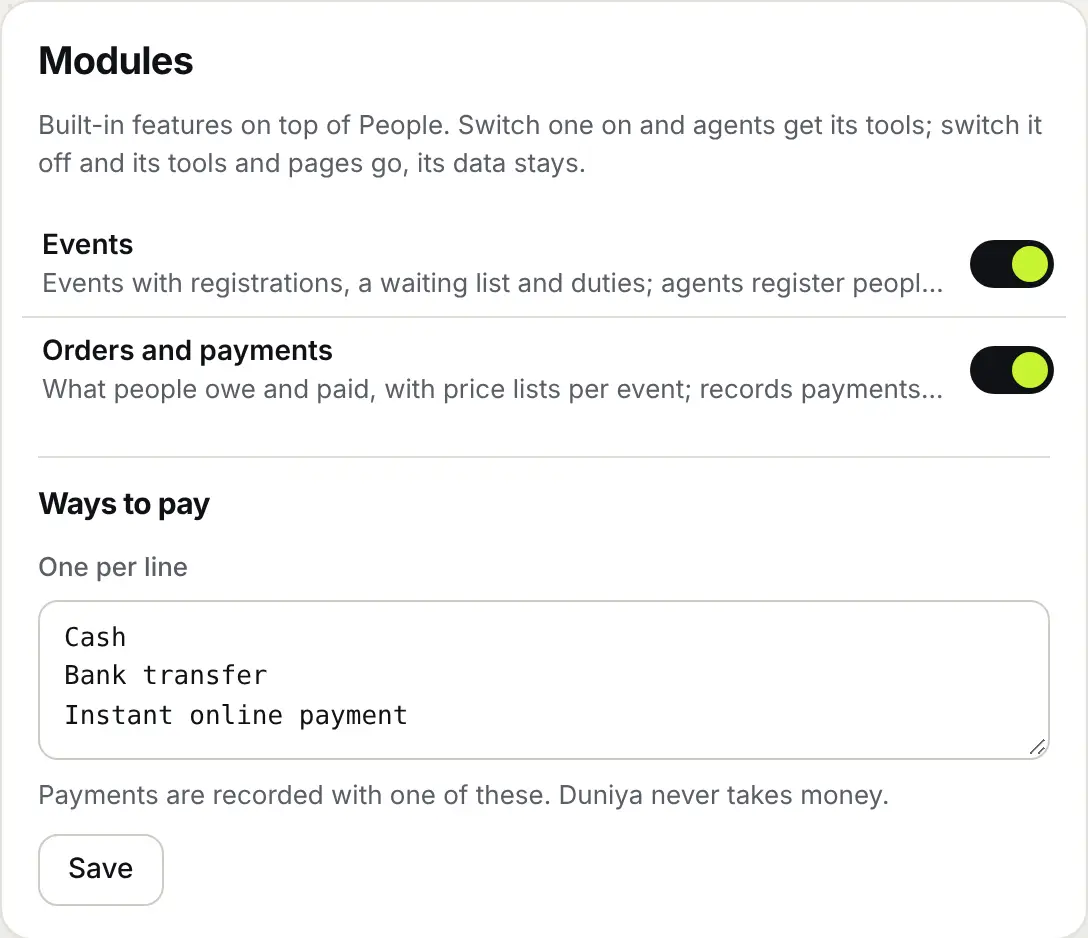
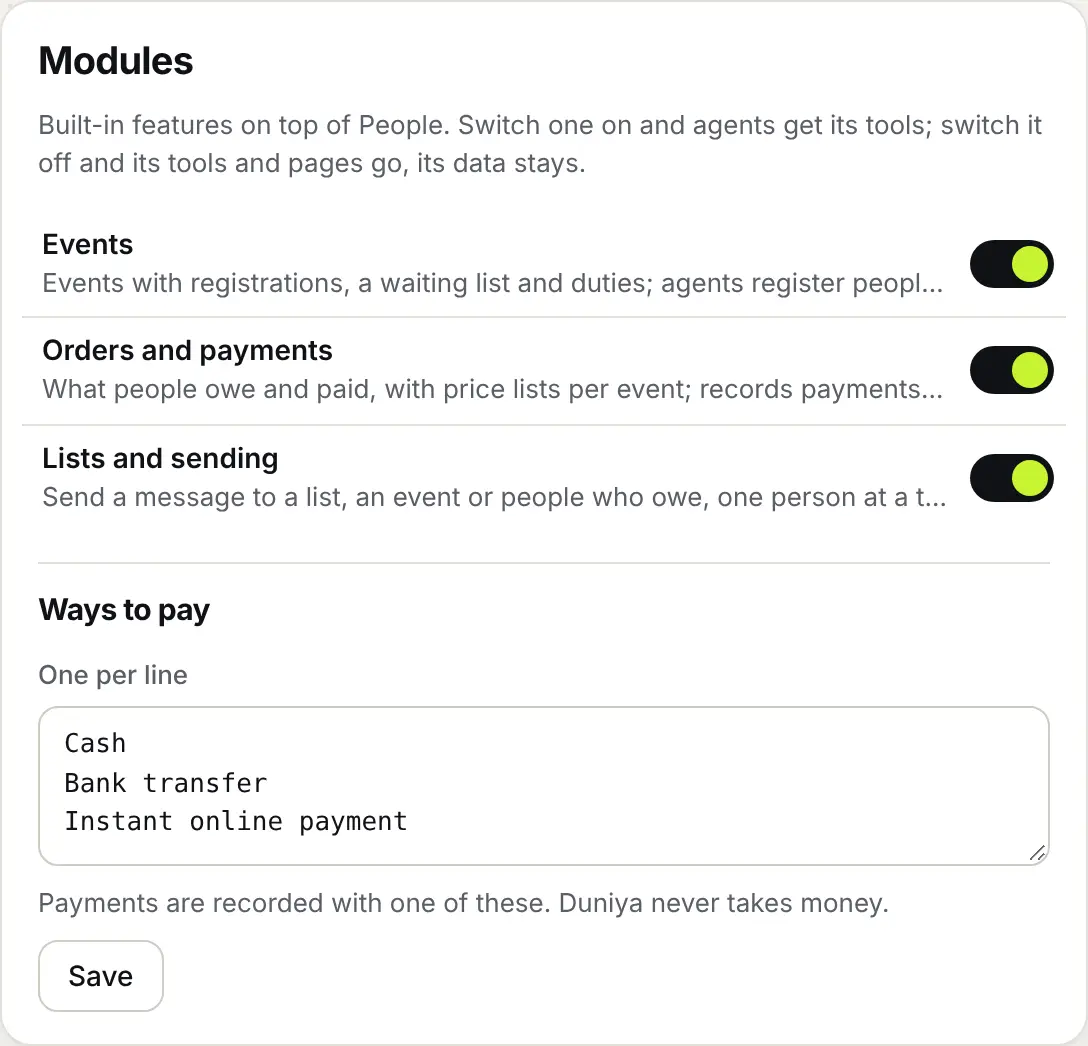
Sending: docs, website tile, screenshots, spec 082, version 2.44.0

diff --git a/docs/site/index.html b/docs/site/index.html
@@ -181,8 +181,15 @@
         <p>Switch on <b>Events</b> and <b>Orders and payments</b> under Settings → Modules. Families register in the group (<i>"!panduga register us for Sankranti"</i>): adults and kids come from the household, a full event fills a <strong>waiting list that moves up by itself</strong>, and an organizer can confirm each one. The price list turns a registration into an order (kids under an age free); record cash or bank payments, part or full, and ask <i>"who hasn't paid?"</i>. Duties, attendance and CSV too. Duniya records payments, it never takes money.</p>
         <div class="duo">
           <a class="shot" href="img/card-event.webp"><img src="img/card-event.webp" width="1600" height="1849" loading="lazy" alt="Sankranti 2027: 7 registrations, 18 people (12 adults, 6 kids), 22 places left; the Chary family with 2 adults, 2 kids, vegetarian; duties such as setting up chairs at 09:00; CHF 115 paid of CHF 350."></a>
-          <a class="shot" href="img/card-orders.webp"><img src="img/card-orders.webp" width="1600" height="1159" loading="lazy" alt="Orders not paid: totals for Sankranti 2027 and each order with what is left and when it is due, one overdue, one part paid."></a>
+          <a class="shot" href="img/card-orders.webp"><img src="img/card-orders.webp" width="1600" height="1226" loading="lazy" alt="Orders not paid: totals for Sankranti 2027 and each order with what is left and when it is due, one overdue, one part paid."></a>
         </div>
+      </article>
+
+      <article class="tile wide">
+        <span class="label">Lists &amp; sending</span>
+        <h3>Message the families, one person at a time.</h3>
+        <p>Switch on <b>Lists and sending</b>: send to a list, a tag, an event's families (one message per household) or everyone who still owes. <strong>Consent is checked in code before every message</strong>, each person gets their own wording with their own facts (never invented), Telegram when they use it, WhatsApp at a person's pace: sending hours, typing, random gaps, a daily limit, slower for people who never wrote. A reply <i>"stop"</i> is respected at once, and the run pauses and tells you. Payment reminders with one tap, or by themselves before the due date. Pacing lowers the risk of a WhatsApp ban; it does not remove it.</p>
+        <a class="shot" href="img/card-sending.webp"><img src="img/card-sending.webp" width="1600" height="1012" loading="lazy" alt="A payment reminder for Sankranti 2027 being sent: 3 of 5 sent, 2 replied, 1 said stop; who got it, and Sophie and Priya waiting."></a>
       </article>
 
       <article class="tile third">

diff --git a/docs/sending.md b/docs/sending.md
@@ -1,0 +1,130 @@
+# Lists and sending
+
+**Send a message to a list, an event's families or everyone who still owes: each person gets their own wording, one
+at a time at a person's pace, and only if they said yes.**
+
+**Do it:** **Settings → Modules** → **Lists and sending** on → **People → Sending → + New message** → **Preview** →
+**Start sending**.
+
+**In 30 seconds**
+- **To:** a list, a tag, a household, the people registered for an event, people with an open order (all, or of one
+  event), or a saved audience. Or **one post in a group** instead of 1:1 messages.
+- **Consent is checked in code** right before every message: the purpose (**updates** or **marketing**) must be *Yes*
+  on the person's page. *Not asked* counts as no. Hidden people, people without an app and chats you switched off are
+  skipped too; the preview lists who and why.
+- **Each person gets their own wording:** the agent rewrites your message for them (their name, household, event,
+  open amount) and must keep every fact word for word, or your message goes out as written. Nothing is invented.
+- **Telegram** when they use it with your bot (fast), **WhatsApp** otherwise, at the [sending pace](sending-pace.md):
+  sending hours, typing, a random gap, a longer pause now and then, a daily limit, slower for people who never wrote.
+- **Nothing is sent before you confirm** the preview: who, how many, which app, how long, who is skipped and why,
+  three samples. Agents can prepare a message too; an organizer confirms it with `confirm CODE`.
+- Replies go to the agent you chose, like any message. **"stop"** (or *unsubscribe*, *arrête*, *basta*, …) records
+  *No* and confirms once; **"start"** undoes it.
+
+![A run's page: the payment reminder for Sankranti, 3 of 5 sent, 2 replied, 1 said stop; who got it and who is waiting](site/img/card-sending.webp)
+
+> [!WARNING]
+> Pacing lowers the risk that WhatsApp restricts or bans your number, but it does **not** remove it. WhatsApp's terms
+> restrict bulk and automated messaging. Send only to people who know you and expect the message, keep lists small,
+> and use a dedicated number ([Connect WhatsApp](whatsapp.md)).
+
+## Send a message
+
+1. **People → Sending → + New message**.
+2. **Title** (for you), **How** (each person in their own chat, or one post in a group), **To** and the list, tag,
+   household or event.
+3. **Purpose**: *Updates* (news about things they take part in: an event, a payment) or *Marketing*.
+4. **Replies go to**: the agent that answers when people write back. Direct chats that are not set up yet are switched
+   on with it (the preview says how many).
+5. **Message**, with the facts it may use: `{first_name}`, `{name}`, `{household}`; for events `{event}`, `{date}`,
+   `{place}`, `{people}` (e.g. *2 adults, 1 kid*); for open orders `{amount}`, `{due}`, `{ways_to_pay}`.
+6. **Pause when this many in a row do not answer** (default 20; 0 for reminders nobody needs to answer).
+7. **Preview** → check the samples and who is skipped → **Start sending to N people**.
+
+**Save audience…** keeps the choice under a name for next time.
+
+## Who gets it
+
+| Audience | Who |
+|---|---|
+| A list, a tag | its people; a kid without a phone is reached through an adult of their household |
+| A household | one message: the first of its adults who can get it (people who wrote to this number first) |
+| An event | its **registered** people; a registered household gets **one** message, to one adult who agreed |
+| Open orders | everyone with an order not fully paid (of one event, or all), one message per household, with the open amount |
+
+Skipped, with the reason on the preview and the run's page: *Said no to updates*, *Not asked about updates*, *Hidden in
+People*, *No app to reach them*, *Their chat is switched off*, *A household without adults*. Consent is checked again
+right before each message, so a *No* recorded meanwhile still counts.
+
+## The pace
+
+One message at a time, on the server's 30-second check (no extra timers), and it carries on after a restart.
+
+- Only within the **sending hours** (09:00–20:00 by default, the owner assistant's time zone).
+- The chat's unread messages are **read first**, then **typing…** for the length of the message.
+- On WhatsApp a **random gap** follows each message (Normal: 45 s–3 min), **twice as long** for someone who never wrote
+  to this number, and a **longer pause** every N messages.
+- **Daily limit:** people who never wrote count as new chats (Normal: 40 a day, lower for a number linked this week);
+  people who wrote may get three times as many. At the limit the run **waits for tomorrow by itself**.
+- Telegram has no WhatsApp gaps or limits: a few seconds apart.
+
+At Normal pace 100 people who wrote before take about four hours; people who never wrote, 40 a day.
+
+## Stop signals
+
+A run **pauses** and you get an owner alert (and the run's page says why) when:
+
+- someone replies **stop** (or asks the agent not to get messages),
+- **N people in a row** did not answer within half an hour (your setting; 0 = never),
+- **3 messages in a row** could not be sent,
+- WhatsApp is **logged out**, or has not been connected for **15 minutes**.
+
+Look at it, then **Resume** or **Stop**. The daily limit and the sending hours only make it wait.
+
+> [!NOTE]
+> WhatsApp does not tell anyone when a person reports or blocks a number. A sudden quiet after a message, or several
+> stops, is the signal to stop and rethink the message.
+
+## Stop and start
+
+- **stop**, *unsubscribe*, *stopp*, *arrête*, *basta*, *para*, *baja*, … as the whole reply (within 30 days of a list
+  message): their consent for that purpose becomes **No** (*Replied STOP*), they get one confirmation, and the run
+  pauses. Saying it again sends nothing.
+- Other phrasings (*"please don't send me these"*, any language): the agent records it with its **stop messages**
+  tool and confirms.
+- **start** sets it back to *Yes* (*Replied START*).
+
+## Payment reminders and event messages
+
+- **People → Orders → Send reminders**: a new message to everyone with an open order (of the event you filter by), with
+  a friendly reminder to start from: amount, due date, ways to pay. Preview, then start.
+- **Automatic reminders**: on an event's page **⋯ → Automatic payment reminders…** → *On*, days before the due date,
+  the agent, the message. Once per due date, people with an open order who agreed to updates get it by themselves;
+  your switch is the confirmation. You get an owner alert when it starts.
+- **Message registered people**: on an event's page **⋯ → Message registered people**: one message per household.
+
+## The run's page
+
+Progress (sent of total, replied, said stop, skipped, failed), **Pause / Resume**, **⋯ → Stop…**, what it is waiting
+for, the message, and each person: what they got and when they replied. It updates by itself. **People → Sending**
+keeps the history; a person's page lists the messages they got (*Messages from lists*).
+
+## Agents
+
+With the module on, agents get (**Tools** on the agent's page):
+
+- **stop messages** (everyone): the sender does not want messages from lists.
+- **sending status** (organizers): the latest runs and their counts.
+- **send to list** (organizers): prepares a message to a list, tag, household, event or open orders; only people this
+  agent may see ([People access](people.md#what-agents-see)) get it; it **always waits for an organizer's
+  `confirm CODE`** with the preview.
+
+## AI assistants and the owner assistant
+
+Admin MCP ([Manage from ChatGPT or Claude](admin-mcp.md)): `list_sends`, `get_send`, `send_to_people`* (preview →
+confirm), `control_send` (pause, resume, stop), `save_send_audience`, `set_payment_reminders`*, and
+`set_person_consent` (* needs `confirm_action`). The [owner assistant](owner-assistant.md) uses the same tools: *"remind
+everyone who hasn't paid for Sankranti"* shows you the preview first.
+
+---
+**Next:** [Sending pace](sending-pace.md) · [People](people.md) · [Orders and payments](orders.md) · [Privacy](privacy.md) · [Docs index](README.md)

diff --git a/specs/082-lists-and-sends/spec.md b/specs/082-lists-and-sends/spec.md
@@ -1,0 +1,54 @@
+# 082 · People step 4a: lists and sends, consent, pace, reminders
+
+Issue #184. Builds on 078/079 (People, consent), 080 (pace) and 081 (module frame, Events, Orders). The design doc is
+approved; decisions are final.
+
+## Why
+
+Organizers reach families one by one: "Sankranti is on the 14th", "CHF 50 is still open". Copy-pasting into dozens of
+chats is slow and, done carelessly, gets a WhatsApp number banned. People already knows who agreed to what; Events and
+Orders know the facts. Sending should use both, never message someone who said no, and look like a person typing.
+
+## User stories
+
+1. People → Sending → New message: to the Committee list, purpose updates, replies go to Panduga, "Hi {first_name}, the
+   committee meets Friday". The preview says 12 people (10 WhatsApp, 2 Telegram), about 25 minutes, 3 skipped (2 not
+   asked, 1 hidden), with three sample messages. I start it.
+2. Each person gets their own wording with their facts; nothing invented; every fact kept or my text goes out.
+3. Messages go one at a time within 09:00–20:00, after the chat's unread messages are read and typing shown, with a
+   random gap, twice as long for people who never wrote; at today's limit it waits for tomorrow by itself.
+4. Ravi replies "stop": his updates consent becomes no, he gets one confirmation, the run pauses and I am told.
+5. 20 people in a row did not answer, three sends failed, WhatsApp logged out: the run pauses with the reason.
+6. Orders → Send reminders: everyone with an open order gets a reminder with their amount, due date and ways to pay;
+   an event can send them automatically three days before the due date.
+7. An event's page → Message registered people: one message per household, to an adult who agreed.
+8. An organizer asks the agent "tell the committee the agenda is out": it prepares the run and waits for `confirm CODE`.
+9. The owner assistant / an AI assistant previews, starts, pauses, resumes and stops runs (confirm for starting).
+10. A restart in the middle carries on; a message that was being sent is never sent twice.
+
+## Requirements
+
+- R1 Module `sending` (`src/modules/sending/`), off by default; tables `snd_runs`, `snd_recipients`, `snd_filters`.
+- R2 Audiences: list, tag, household, event (registered), orders (open, optional event), people; saved audiences.
+  Households get one message (the first adult who can get it, people who wrote first); kids without an app are reached
+  through household adults.
+- R3 Skips in code with reasons: hidden, consent not yes (unknown = no), no app, chat switched off, household without
+  adults; agent runs also skip people outside the agent's People access. Consent and hidden re-checked before each send.
+- R4 Per-person text: background model rewrite of the filled template; kept only if every used fact appears verbatim.
+- R5 Channel: Telegram direct chat when the person has one and Telegram is on, else WhatsApp (their chat or their
+  phone on the first number). Or one post in a group that is on. Direct chats are switched on with the run's agent.
+- R6 Pace (src/core/pace.js, extended): hours, typing after reads, gap (×2 never wrote), longer pause every N,
+  daily cap (never wrote = new chats with warm-up; wrote = 3×). Global WhatsApp gap across runs. Telegram 3 s.
+- R7 Upkeep tick: at most one send at a time; drafts expire after a day; a send left "sending" > 10 min is failed.
+- R8 Stop signals pause + owner alert: stop word/tool, N unanswered in a row (> 30 min, since start/resume), 3 failures
+  in a row, logged out, offline 15 min. Waits (no pause): hours, cap, offline < 15 min.
+- R9 Stop/start words (several languages) answered without a model within 30 days of a list message; agent tool
+  `stop_messages` for other phrasings; one confirmation.
+- R10 Orders: reminder template; automatic reminders per event (days, agent, message), once per due date.
+- R11 Agent tools: stop_messages (all), sending_status, send_to_list (held for confirm with the preview line).
+- R12 Admin MCP: list_sends, get_send, send_to_people*, control_send, save_send_audience, set_payment_reminders*.
+- R13 check-perf: run page, history, event recipients budgets; previews of every audience kind, a send, a stop word.
+
+## Out of scope
+
+Surveys and campaigns (083); detecting reports/blocks (WhatsApp does not tell); media in list messages.

diff --git a/docs/admin-mcp.md b/docs/admin-mcp.md
@@ -75,7 +75,7 @@ rotation). Spec: [`specs/017-admin-mcp/`](../specs/017-admin-mcp/spec.md).
 | Chats | assign, settings (model, fallback mode and chain, logging, welcome new members; `list_chats` leaves out settings at their default), private, privacy notice, stored messages (`list_chat_messages`: each answer with its agent and rating; `around_id` opens them at one answer; `delete_chat_message`, confirmed: the agent forgets it), `search_messages` (owner: across every chat that is on and not private), `load_chat_history` (Load earlier from your phone, optional: unanswered loads retry by themselves; the owner assistant runs it without a confirm code), `set_history_on_switch_on`, prepare a direct chat before the person writes (`prepare_direct_chat`; confirmed when `send_intro` is set), first message by the agent (`send_chat_intro`, confirmed) |
 | Money | usage, prices, spending caps, weekly summary preview (alerts number and schedule: `update_agent` on `owner-assistant`) |
 | People & memory | [People](people.md) (`list_people`, `get_person`: one person's page — apps, ties, households, notes and timeline, tags, lists, their chats, consents, the agents that can see them; `add_person`, `update_person`, `add_person_note`, `set_person_tie`, `remove_person_tie`, `set_person_tags`, `set_person_hidden` (Hide / Show again), `set_person_consent` (privacy notice, updates, marketing), `merge_people`, `undo_merge`, `export_person`, `erase_person` (the only true delete, owner, confirmed); `list_people` filters by `source` (chat, phone, owner) and `hidden`; `update_agent` sets `peopleAccess`, `peopleLists` and organizers as people or lists; households: `list_households`, `get_household`, `save_household`, `set_household_member`; lists: `list_people_lists`, `save_people_list`, `set_list_member`; names: `people_names_status`, `refresh_contact_names`, `set_contact_names_for_agents`, optional — names refresh by themselves), memory, WhatsApp groups, WhatsApp numbers, users |
-| Modules | `list_modules`, `set_module_enabled` (confirm required); [Events](events.md): `list_events`, `get_event` (counts incl. kids, registrations, duties), `save_event`, `delete_event` (confirm required), `register_for_event`, `update_registration`, `save_event_duty`; [Orders and payments](orders.md): `list_orders` ("who hasn't paid?"), `get_order`, `create_order`, `record_payment` (payments and refunds, confirm required), `set_payment_methods` |
+| Modules | `list_modules`, `set_module_enabled` (confirm required); [Events](events.md): `list_events`, `get_event` (counts incl. kids, registrations, duties), `save_event`, `delete_event` (confirm required), `register_for_event`, `update_registration`, `save_event_duty`; [Orders and payments](orders.md): `list_orders` ("who hasn't paid?"), `get_order`, `create_order`, `record_payment` (payments and refunds, confirm required), `set_payment_methods`; [Lists and sending](sending.md): `list_sends`, `get_send`, `send_to_people` (preview, confirm required), `control_send` (pause, resume, stop), `save_send_audience`, `set_payment_reminders` (confirm required) |
 | Sending pace | `get_sending_pace`, `set_sending_pace` (preset, read receipts, custom ranges: [Sending pace](sending-pace.md)) |
 | Channels | `list_channels` (state, numbers or bot connected, memory used, the Telegram bot's name and privacy mode), `set_channel_enabled` (switching a channel off needs `confirm_action`), `set_telegram_dm_agent`; connect Telegram with `set_secret` `TELEGRAM_BOT_TOKEN` (one-time link) |
 | Models | models, accounts (`list_model_accounts` with each account's health: paused until when and why, e.g. a usage limit; for [agent apps](models.md#agent-apps) also whether the app is downloaded and its measured memory), fallback, photos & voice. Agent apps are connected by the owner in the panel (their own sign-in) |

diff --git a/docs/modules.md b/docs/modules.md
@@ -1,6 +1,6 @@
 # Modules
 
-**Switch on built-in features that hang off People: Events, and Orders and payments. Off keeps their data.**
+**Switch on built-in features that hang off People: Events, Orders and payments, and Lists and sending. Off keeps their data.**
 
 **Do it:** panel → **Settings → Modules** → switch **Events** (and **Orders and payments**) on.
 
@@ -12,7 +12,7 @@
 - **Off** removes its agent tools and pages; its data stays, and comes back when you switch it on again.
 - Merge, undo, export and erase in People cover module rows too (also while a module is off).
 
-![Settings → Modules: Events and Orders and payments, each with a switch, and the ways to pay](site/img/card-modules.webp)
+![Settings → Modules: Events, Orders and payments, and Lists and sending, each with a switch, and the ways to pay](site/img/card-modules.webp)
 
 ## The modules
 
@@ -20,6 +20,7 @@
 |---|---|---|
 | **Events** | events with places, a deadline, a price list; registrations per household or person (adults and kids), a waiting list, organizer confirmation, duties, attendance, CSV | [Events](events.md) |
 | **Orders and payments** | what people owe and paid: orders (from a registration by itself, or by hand), part payments, refunds, your own ways to pay, a daily list of orders due | [Orders and payments](orders.md) |
+| **Lists and sending** | a message to a list, a tag, a household, an event's families or people who owe: consent checked per message, each person's own wording, the WhatsApp pace, stop signals, payment reminders | [Lists and sending](sending.md) |
 
 ## Agent tools
 
@@ -42,7 +43,8 @@ When a module is on, every agent gets its tools, shown on the agent's page under
 
 ## AI assistants and the owner assistant
 
-Admin MCP: `list_modules`, `set_module_enabled`* (* needs `confirm_action`); each module's tools are on its page.
+Admin MCP: `list_modules`, `set_module_enabled`* (* needs `confirm_action`; module `events`, `orders` or `sending`); each
+module's tools are on its page.
 
 ---
-**Next:** [Events](events.md) · [Orders and payments](orders.md) · [People](people.md) · [Docs index](README.md)
+**Next:** [Events](events.md) · [Orders and payments](orders.md) · [Lists and sending](sending.md) · [People](people.md) · [Docs index](README.md)

diff --git a/specs/082-lists-and-sends/plan.md b/specs/082-lists-and-sends/plan.md
@@ -1,0 +1,18 @@
+# 082 · Plan
+
+| Concern | Decision |
+|---|---|
+| Module | `src/modules/sending/index.js` (runs, preview, start/pause/resume/stop, the tick step, stop/start intercept, person section, held start), `audience.js` (audiences → recipients, facts, fill), `tools.js` (3 agent tools). Catalogue entry with `snd_recipients.person` refs (merge, export, erase) |
+| Frame | `moduleApi(id)` (Orders calls Sending), `interceptMessage(msg, channel)` (router, direct messages from people, before the agent) |
+| Pace | `pace.js`: `sendingHoursNow`, `listGapMs`, `takeListSend`, `typeBefore`, `listEstimate` exported; no copy of the pace logic |
+| Router | after `queueRead`: `interceptMessage` for direct messages with a person |
+| Orders | reminder template, `autoReminders` / `setAutoReminders` (setting `orderReminders`), daily `autoRemind` in the existing daily upkeep; owner list mentions Send reminders |
+| Panel API | `/api/sending`, `/api/sending/preview`, `/api/sending/runs/:id` (GET, PUT action), `/api/sending/runs/:id/start`, `/api/sending/filters`, `/api/order-reminders` |
+| Panel | `sending.js` (history, New message + preview, run page with live updates via `S.onFeed`), People nav Sending, Orders → Send reminders, event ⋯ → Message registered people / Automatic payment reminders |
+| Admin MCP | list_sends, get_send, send_to_people*, control_send, save_send_audience, set_payment_reminders*; set_module_enabled accepts sending |
+| Indexes | snd_runs_status (tenant, status, next_at), snd_runs_created; snd_recipients_run (tenant, run, status, n), _person (tenant, person, at), _chat (tenant, chat, at). Measured at 60k recipients: _run 2.8 MB, _person 2.5 MB, _chat 3.3 MB (about 40–55 bytes per recipient per index); the table 8.2 MB |
+| Perf | fixture: 30 runs × 2,000 recipients; budgets: run page 12 ms, history 15, event recipients 20 (measured 4.4 / 5.9 / 6.7) |
+| Small servers | loads only when on; no timers (upkeep tick, one send in flight); queries bounded (5,000 recipients, 500 rows on a page, 50 runs) |
+| Panel budget | first screen unchanged (62 600), total +5.3 KB (201 800) |
+| Migrations | none (new tables via CREATE TABLE) |
+| Dependencies | none |

diff --git a/specs/082-lists-and-sends/tasks.md b/specs/082-lists-and-sends/tasks.md
@@ -1,0 +1,18 @@
+# 082 · Tasks
+
+- [x] T1 Issue #184 (labels, spec: 082), spec folder, plan comment
+- [x] T2 Pace: list helpers in pace.js (hours, gap, cap, typing after reads, estimate)
+- [x] T3 Frame: moduleApi, interceptMessage; router hook
+- [x] T4 Sending module: audiences and skips, drafts and preview, start/pause/resume/stop, the tick step with waits and stop signals, restart safety, stop/start words, person section, held start
+- [x] T5 Orders: Send reminders, automatic reminders per event; Events: message registered people
+- [x] T6 Panel API + panel: People → Sending (history, New message with preview, run page), Orders and event entry points
+- [x] T7 Agent tools; admin MCP tools (risky ones confirmed)
+- [x] T8 Tests with fakes and a fake clock (sending.test.js); modules test; check-perf fixture and workload
+- [x] T9 Demo data, responsive states, site shots, docs (sending, modules, events, orders, people, privacy, pace, admin-mcp, index), README, website tile
+- [x] T10 Version 2.44.0, releases.json; all checks; PR; merge; done comment; real-device checks on #62
+
+## Definition of Done
+- [x] Small servers: module loads only when on; no timers; one send per tick; check:perf passes with new budgets
+- [x] Lean code: pace reused, not copied; knip, jscpd, ci-checks pass
+- [x] Security & privacy: consent and permissions in code; confirm before any send; chats that are off and hidden people never messaged; texts rendered as text
+- [x] Docs, website, screenshots, admin MCP; honest about WhatsApp ban risk and terms

diff --git a/docs/people.md b/docs/people.md
@@ -68,8 +68,9 @@ One row per purpose: **Saw the privacy notice**, **May receive updates**, **May 
 
 - *Saw the privacy notice* is recorded by itself: when the notice is posted in a group that is on (everyone known to be
   in it, and later members when they show up), and when the notice line is added to a direct-message answer.
-- Change any row with its menu; it records your user name and the time. Sending to lists will only use people who said
-  yes (a later module).
+- Change any row with its menu; it records your user name and the time. [Lists and sending](sending.md) messages only
+  people who said yes to its purpose (*updates* or *marketing*), checked right before each message; a reply **stop**
+  records *No* (*Replied STOP*), **start** records *Yes* again.
 
 ## What agents see
 
@@ -123,8 +124,8 @@ a tie from both.
   owner assistant through the admin tools).
 - Agent notes never hold message text: a note that copies one of the person's stored messages is refused, unless your
   logging policy keeps message contents (*verbose*, [Privacy](privacy.md)).
-- The timeline also shows what happened: added to People, joined a household, merged, merge undone. Later modules
-  (events, orders, surveys) will write here too.
+- The timeline also shows what happened: added to People, joined a household, merged, merge undone. Modules write
+  here too (registrations, payments; [Lists and sending](sending.md) lists the messages a person got on their page).
 
 ## Tags and lists
 

diff --git a/README.md b/README.md
@@ -55,7 +55,7 @@ then takes about five taps: link WhatsApp, connect a model, pick a template, swi
 </tr>
 </table>
 
-More: [People](docs/people.md) (everyone from your chats and your phone in one place: families, kids, notes, tags, lists, consent; agents know who is writing and see only their own chats' people) · [Events](docs/events.md) and [orders & payments](docs/orders.md) (registrations with kids, waiting list, duties, who paid; agents register people) · [Telegram](docs/telegram.md) · [MCP tool services](docs/agents.md#tool-services-mcp) · [manage it from ChatGPT or Claude](docs/admin-mcp.md) ·
+More: [People](docs/people.md) (everyone from your chats and your phone in one place: families, kids, notes, tags, lists, consent; agents know who is writing and see only their own chats' people) · [Events](docs/events.md) and [orders & payments](docs/orders.md) (registrations with kids, waiting list, duties, who paid; agents register people) · [Lists and sending](docs/sending.md) (message a list, an event's families or everyone who owes: consent checked per message, each person's own wording, a person's pace, stop signals, payment reminders) · [Telegram](docs/telegram.md) · [MCP tool services](docs/agents.md#tool-services-mcp) · [manage it from ChatGPT or Claude](docs/admin-mcp.md) ·
 [your own domain](docs/domains-and-access.md) · [how it works](docs/architecture.md).
 
 > [!WARNING]

diff --git a/docs/orders.md b/docs/orders.md
@@ -12,8 +12,9 @@
   cancellation cancels it (if something was paid, the timeline says so and you refund).
 - Record **payments** (part or full) and **refunds** with a method from **your own list** (Cash, Bank transfer,
   Instant online payment by default). Status: **Open**, **Part paid**, **Paid**, **Refunded**, **Cancelled**.
-- Once a day you get one message with the open orders due within three days or overdue (owner alerts). Reminders to
-  people come with list sending.
+- Once a day you get one message with the open orders due within three days or overdue (owner alerts). With
+  [Lists and sending](sending.md) on, **Send reminders** messages the people themselves, and an event can send them
+  automatically a few days before the due date.
 
 ![Orders: not paid, totals per event, and each order with what is left and when it is due](site/img/card-orders.webp)
 
@@ -48,4 +49,4 @@ Admin MCP: `list_orders` (open, overdue, paid, refunded, cancelled or all; per e
 `record_payment`* (payment or refund), `set_payment_methods` (* needs `confirm_action`).
 
 ---
-**Next:** [Events](events.md) · [Modules](modules.md) · [People](people.md) · [Docs index](README.md)
+**Next:** [Lists and sending](sending.md) · [Events](events.md) · [Modules](modules.md) · [People](people.md) · [Docs index](README.md)

diff --git a/docs/README.md b/docs/README.md
@@ -34,6 +34,7 @@
 |---|---|---|
 | <img src="img/thumb-people.webp" alt="" width="120"> | **[People](people.md)** | you want one place for who is who: families and kids, notes, tags, lists, merge, export and erase |
 | <img src="img/thumb-events.webp" alt="" width="120"> | **[Events](events.md)** · [Orders and payments](orders.md) · [Modules](modules.md) | you run family events: registrations with kids, a waiting list, duties, who paid what |
+| <img src="img/thumb-sending.webp" alt="" width="120"> | **[Lists and sending](sending.md)** | you want to message a list, an event's families or everyone who owes: with consent, each person's own wording, at a person's pace |
 | <img src="img/thumb-telegram.webp" alt="" width="120"> | **[Connect Telegram](telegram.md)** | your groups are on Telegram too: add a bot, same agents, one person on both apps |
 | <img src="img/thumb-photos-voice.webp" alt="" width="120"> | **[Photos & voice](models.md#photos--voice)** | agents should see photos, hear voice notes or reply with voice |
 | <img src="img/thumb-usage.webp" alt="" width="120"> | **[Usage & spending caps](spending.md)** | you want to see or limit what it costs |

diff --git a/docs/privacy.md b/docs/privacy.md
@@ -39,6 +39,17 @@ context…" (edit under **Settings → Privacy notice**).
   direct-message line ([People → Consent](people.md#consent)).
 - Admin MCP: `get_privacy_notice`, `set_privacy_notice`, `set_chat_privacy_notice`.
 
+## Consent for messages to lists
+
+- [Lists and sending](sending.md) messages a person only when their page says *Yes* to the purpose (*May receive
+  updates* or *May receive marketing*), checked in code right before each message. *Not asked* counts as no.
+- A reply **stop** (*unsubscribe*, *arrête*, *basta* and the like, or asking the agent in any words) records *No* for
+  that purpose with the source and time, confirms once and pauses the run; **start** records *Yes* again.
+- Chats that are off, hidden people and people without an app are never messaged. The first message to someone in a
+  direct chat carries the privacy line, like any first reply.
+- What was sent is stored with the run (the text each person got, when, whether they replied) and in the chat's
+  messages; **Export** and **Erase** of a person include it.
+
 ![Privacy notice settings](site/img/card-privacy.webp)
 
 ## What is kept, and who sees it
